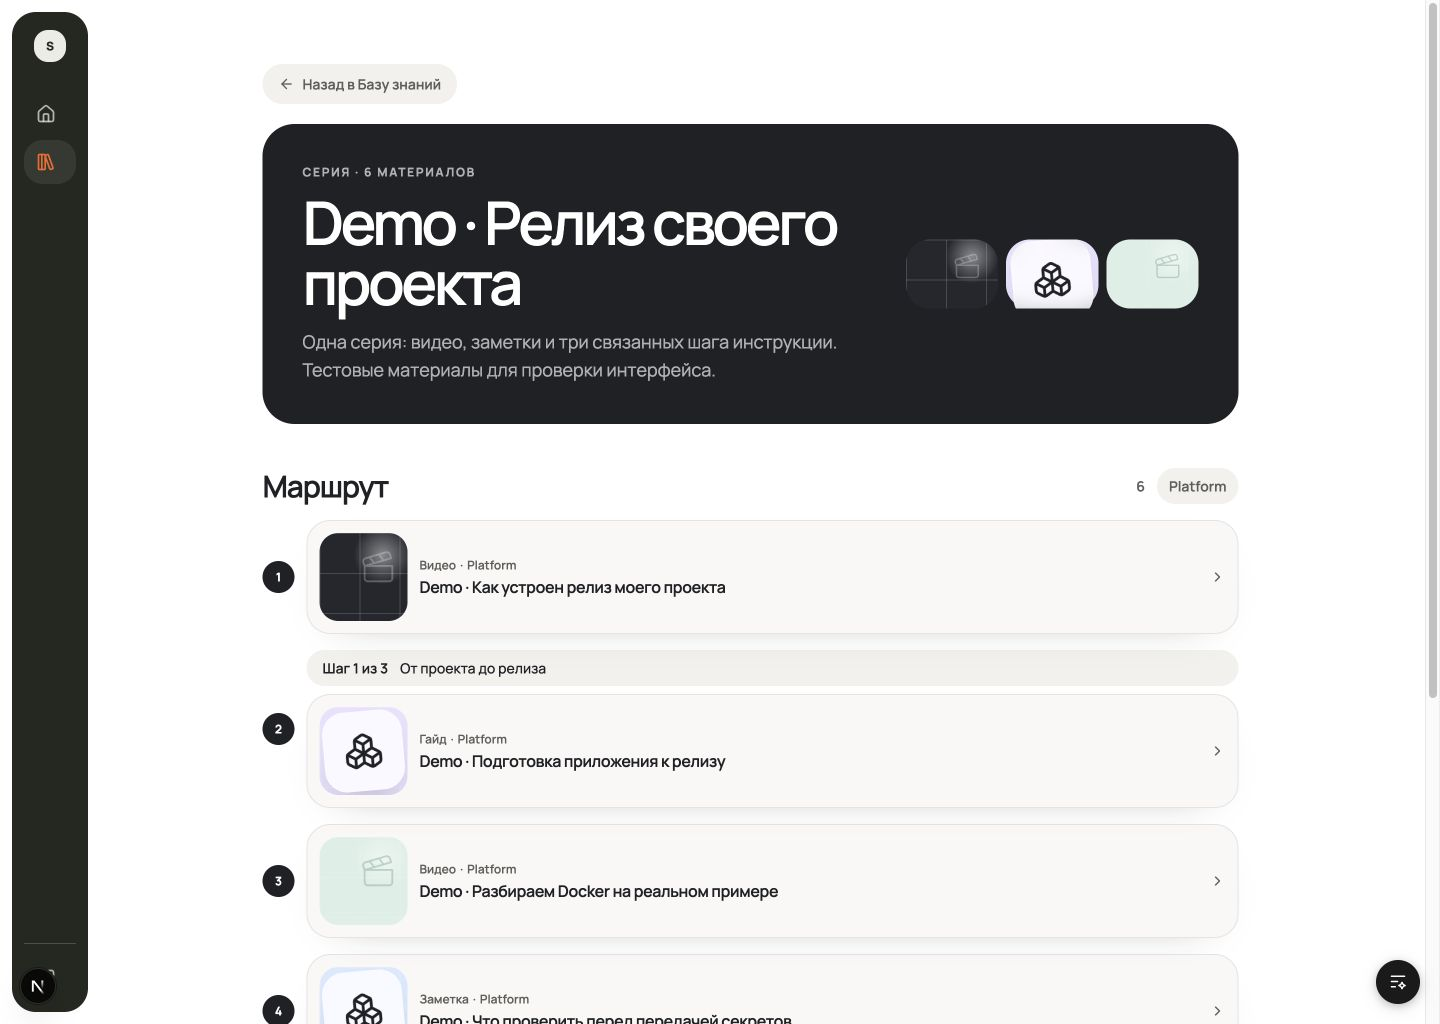
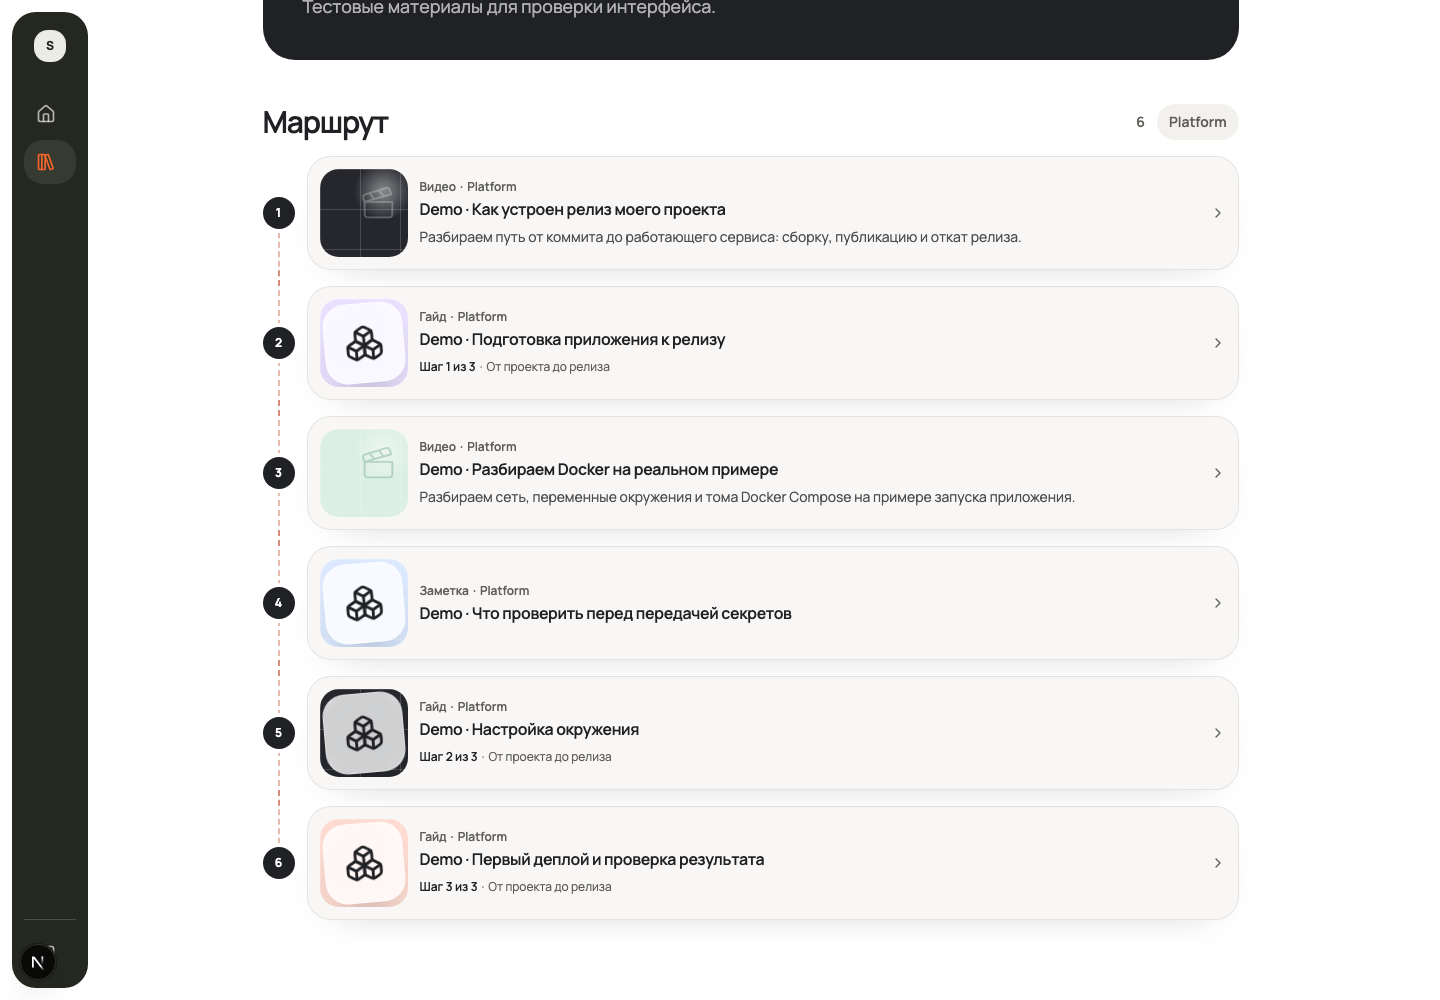
docs: record accepted mixed Series desktop and mobile evidence

diff --git a/docs/evidence/issue-298/README.md b/docs/evidence/issue-298/README.md
@@ -1,50 +1,65 @@
 # Connected steps within mixed Series — #298
 
 Production implementation: [PR #300](https://github.com/sachkov-inside/platform/pull/300).
-Core implementation `474a4a2`; final fixture assertions `ce06d8d`.
-Content contract alignment: [Inside Content #5](https://github.com/sachkov-inside/inside-content/pull/5).
+Accepted visual decision: [#301](https://github.com/sachkov-inside/platform/issues/301), with the
+owner's final equal-marker refinement recorded in [#298](https://github.com/sachkov-inside/platform/issues/298).
+Final application source: `fe4c5f3`; evidence-only changes follow it.
+Content contract alignment: [merged Inside Content #5](https://github.com/sachkov-inside/inside-content/pull/5).
 
-## Observed result
+## Final presentation
 
 The live `/series/demo-series-release` contains six ordered entries: video, preparation guide,
 Docker video, note, environment guide, deployment guide. The three guides explicitly belong to
 “От проекта до релиза” and show steps 1/3, 2/3 and 3/3 at overall positions 2, 5 and 6.
-The same preparation guide in `/series/demo-series-release-shared` has no step mark. Reader for
-that guide in the release Series remains position 2/6 and goes next to the Docker video.
-There is no second Reader path, format-based inference, or main/optional role.
 
-Root coordinator independently reviewed the live Series, shared Series and Reader, then reviewed
-the rebuilt foreground label and mobile screenshot: visual GO. Browser was released afterward.
+All six entries have the same dark filled ordinal marker. A dashed line passes through their common
+axis from the first marker to the last. Step labels sit inside the original MaterialCard below its
+title. Video rows use their published summary as plain text, limited to three visible lines; the
+full summary remains in Reader. Covers, card metadata and the mixed reading order are preserved.
+There are no primary/optional roles or a second Reader path.
 
-## Responsive evidence
+The first mobile review caught unbounded video summaries making rows disproportionately tall.
+The final source limits them to three lines and gives the two demo videos concise, concrete
+summaries. Storybook verifies the rendered height against the three-line limit.
 
-Captured from the real Compose API/web after rebuilding the foreground-contrast correction.
-All application data comes from development seed through the production adapter, not Storybook.
+## Current responsive evidence
 
-- [Desktop, 1440 × 1024](series-desktop.png)
-- [Desktop lower steps](series-desktop-steps.png)
-- [Mobile, 390 × 844](series-mobile.png)
-- [Mobile lower steps](series-mobile-steps.png)
-- [Same guide in another Series](shared-series-desktop.png)
-- [Reader retains the mixed Series next item](reader-desktop.png)
+- [Final desktop, 1440 px wide](series-desktop.png)
+- [Final mobile, 390 px wide](series-mobile.png)
 
-Mobile DOM measurement: document scrollWidth = innerWidth = 390. All three badges present in
-published order. Shared Series badge count = 0. Temporary viewport override was reset, evidence
-tab closed; the coordinator's deliverable tab remains available.
+The root coordinator captures these images from the real Compose API/web using the documented
+isolated Playwright screenshot CLI, then inspects the images. CUA was unavailable in both sessions
+(native pipe startup failure / browser unavailable); no final interactive CUA inspection is claimed.
+Root independent visual inspection: desktop and mobile GO on `fe4c5f3`. All six markers have equal
+weight, labels are inside cards, and video summaries remain compact. The mobile full-page image
+shows the fixed shell at its initial viewport position; that is a full-page capture artifact.
 
-## Verification
+The production route and Storybook import the same implementation. Stories verify step labels
+inside the guide cards, equal marker appearance, line/marker alignment, summary height, literal
+HTML-like summary text and absence of horizontal overflow on desktop/mobile.
 
-Pinned Node 24.19.0 / pnpm 11.22.0 root `pnpm check` passed: backend 296 tests, Web/module/Storybook
-341 tests, Playwright 39 passed / 3 environment-conditional skipped, builds and guardrails green.
-PostgreSQL suite: all 152 tests passed after updating demo cardinality and migration-registry
-expectations. Hosted Integration separately passed on the corrected commit. MCP round-trip includes
-a normalized step assignment.
+## Unchanged navigation evidence
 
-Storybook uses the production public and authoring modules, with connected steps desktop/mobile
-and real composition-mutation form assertions. Its accessibility checks caught accent-on-secondary
-contrast 4.3:1 in the first iteration; the corrected foreground text passed the unmodified checks.
-Live CUA console showed only the known development Agentation localhost session fallback warning.
-Final full-stack and CI closure are recorded in the PR.
+These earlier images document the already-verified context behavior before the visual refinement;
+they do not represent the final Series card styling:
+
+- [Same guide in another Series](shared-series-desktop.png): no step assignment in that Series.
+- [Reader retains the mixed Series next item](reader-desktop.png): preparation guide is entry 2/6
+  and advances to the Docker video, not directly to guide step 2.
+
+The superseded external-label screenshots were removed; Git history preserves them.
+
+## Verification and compatibility
+
+The final checks and exact-head CI outcome are recorded in the PR. Focused tests cover labels,
+legacy omission, clearing, optimistic composition versions, draft exclusion and MCP round-trip.
+The full authoring flow previously passed the isolated full-stack suite; this visual amendment
+changes no authoring, Reader, API or composition contract.
+
+On the existing local database, changing demo summaries initially exposed an old creation receipt
+fingerprint. The seed now retains the original createDraft payload and updates current summary
+through ordinary Material Save. Existing-volume upgrade and repeated fresh seed pass without a
+reset. API/web container source hashes match the committed application files.
 
 ## Limits and runtime
 
